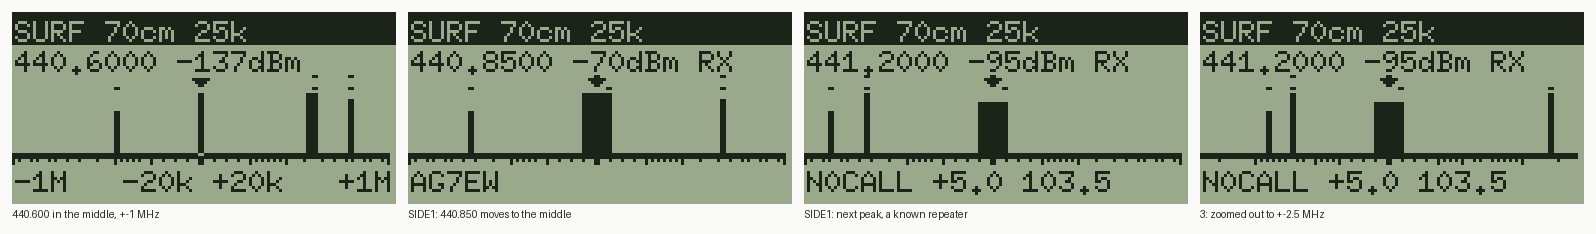
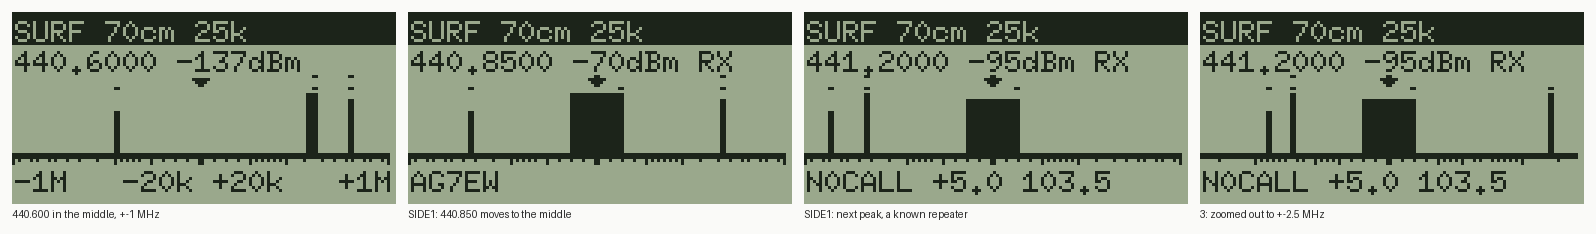
surf: the lens reads with the wide filter; the listening bar no longer blinks
Jeff, on the radio (2026-11-10): the -20k..+20k lens looked flat ("a haircut") with a floor
lower than the rest, and the blinking bar in the middle served no purpose. The narrow filter
(+-6 kHz) read 5 ms after a tune, short of its ~20 ms settle, against outer bins that keep the
loudest of several wide reads; Jeff chose the wide filter for the lens (decision card). Every
bin now reads the same way, a carrier shows as a +-12 kHz hump, and the middle bar is drawn
steady like the others under its caret. Docs screens redrawn.

Claude-Session: https://claude.ai/code/session_01EkN2wZbktbfhQ12msC7iZ3

diff --git a/c/k6/mod/surf.c b/c/k6/mod/surf.c
@@ -2,12 +2,13 @@
 
    The screen is a bargraph of signal strength (Y) across frequency (X): 63 bins, 2 pixels each,
    drawn as the level-6 waterfall bitmap (30 rows of 128 pixels, y = 21-50). The listening
-   frequency is always the middle bin (x = 62-63), a blinking bar (it flips to inverse about 2.5
-   times a second) with a caret above it, and the scale moves with it. The scale is a lens (Jeff,
+   frequency is always the middle bin (x = 62-63), its bar drawn like the others with a caret
+   above it (it blinked until 2026-11-10; Jeff: no purpose), and the scale moves with it. The scale is a lens (Jeff,
    2026-11-09): the 8 bins each side of the middle are 2.5 kHz apart (+-20 kHz, a quarter of the
    screen), and further out each bin's step grows by the same amount, so the last of the 31 each
-   side reaches the span (1 / 3: +-100 kHz to +-5 MHz). The lens's bins read with the narrow
-   filter (Jeff: "narrow it a bit"), the rest with the wide one. Under the bars an axis line has
+   side reaches the span (1 / 3: +-100 kHz to +-5 MHz). Every bin reads with the wide filter (the
+   narrow one, 2026-11-09, gave the lens a flat top and a lower floor than the rest; Jeff
+   2026-11-10: wide again). Under the bars an axis line has
    ticks as on log paper, every 5 kHz to 20 kHz, every 10 kHz to 100 kHz, every 100 kHz to 1 MHz
    and every 1 MHz, taller at 20 kHz, 100 kHz and 1 MHz (Jeff: "axis tic marks to help understand
    the frequency intervals"); line 5 labels it "-1M   -20k +20k   +1M" (the span at each end, the
@@ -82,7 +83,6 @@
 #define AX 27                   /* the axis: its line, then ticks in rows 28 (all) and 29 (major) */
 #define BARH (AX - BAR0)
 #define SETTLE_US 3000          /* a sweep read after its tune (Aura's spectrum, wide) */
-#define SETTLE_N_US 5000        /* the same with the narrow filter (it settles in ~20 ms, not 12) */
 #define CHECK_US 12000          /* a settled read */
 #define CHK_MS 70               /* sweeping: a check of the bar's channel this often */
 #define SUB_HZ 20000u           /* a wide bin: one quick read this far apart across it */
@@ -148,7 +148,7 @@ typedef struct {
   uint32_t t_flush, t_open, t_full, t_sfl, t_msg, t_key, t_rep, t_auto, t_chk;
   int next, pend, sj, sweeps;
   int sfl, sel_dbm;
-  uint8_t si, qfl, parked, tuned, check, mon, hold, audio, hush, blink, key, raw, full, refine, stale;
+  uint8_t si, qfl, parked, tuned, check, mon, hold, audio, hush, key, raw, full, refine, stale;
   uint16_t off[C + 1];          /* bin C+-k's offset from the middle, x 2.5 kHz */
   uint32_t hz[NB];              /* each bin's frequency, 0 outside the band */
   uint32_t pk[NB];              /* where in its range a bin's loudest read was */
@@ -231,15 +231,13 @@ static void hush(sf_t *s, int on) {
   wr(GPIOB + (on ? BRR : BSRR), SPK);
 }
 
-/* the level at hz in dBm, us after its tune (wide: the wide filter, else the narrow) */
-static int read_w(sf_t *s, uint32_t hz, uint32_t us, int wide) {
+/* the level at hz in dBm, us after its tune (the wide filter) */
+static int read_hz(sf_t *s, uint32_t hz, uint32_t us) {
   hush(s, 1);
-  s->api->tune(hz, wide);
+  s->api->tune(hz, WIDE);
   s->api->delay_us(us);
   return dbm(s);
 }
-
-static int read_hz(sf_t *s, uint32_t hz, uint32_t us) { return read_w(s, hz, us, WIDE); }
 
 static int read_at(sf_t *s, int i, uint32_t us) { return read_hz(s, s->hz[i], us); }
 
@@ -522,9 +520,7 @@ static void sweep_bin(sf_t *s, int i) {
   uint32_t lo, hi, f, at = s->hz[i];
   int r, o = s->lvl[i], v;
   cov(s, i, &lo, &hi);
-  if (dist(i) <= KI) {
-    r = read_w(s, at, SETTLE_N_US, 0);   /* the lens: the narrow filter (Jeff 2026-11-09) */
-  } else if (hi - lo <= SUB_HZ) {
+  if (hi - lo <= SUB_HZ) {                 /* the lens and bins up to 20 kHz wide: one read */
     r = read_at(s, i, SETTLE_US);
   } else {
     for (r = -999, f = lo + SUB_HZ / 2; f < hi; f += SUB_HZ)
@@ -638,7 +634,7 @@ static void park_step(sf_t *s) {
   }
   if (!s->hold && (s->stale || (!s->mon && s->now - s->t_full >= REFRESH_MS))) {   /* (stale: a zoom) */
     int i;
-    for (i = 0; i < NV; i++)          /* (read_w hushes the speaker; the next read unhushes it) */
+    for (i = 0; i < NV; i++)          /* (read_hz hushes the speaker; the next read unhushes it) */
       if (s->hz[i]) sweep_bin(s, i);
     sweep_done(s);
     s->tuned = 0;
@@ -705,7 +701,6 @@ static void draw(sf_t *s) {
   int i, r, x, k;
   char *p;
   s->t_flush = s->now;
-  s->blink ^= 1;
   for (i = 0; i < 16 * ROWS; i++) b[i] = 0;
   for (i = 0; i < NV; i++) {
     if (!s->hz[i]) continue;
@@ -734,8 +729,6 @@ static void draw(sf_t *s) {
   }
   for (r = 0; r < 3; r++)
     for (i = x - 2 + r; i <= x + 3 - r; i++) px(b, i, r + 1);
-  if (s->blink)
-    for (r = BAR0; r < AX; r++) b[16 * r + (x >> 3)] ^= (uint8_t)(0xC0 >> (x & 7));
 
   p = put(s->ln, "SURF ");
   p = put(p, s->bd->name);

diff --git a/tests/test_k6_surf.py b/tests/test_k6_surf.py
@@ -192,11 +192,13 @@ def test_bench_build_surfs_by_itself_and_wraps():
     assert f is not None and len(f["heights"]) == NV
     last = lcd["frames"][-1]
     same = sum(height(f, i) == height(last, i) for i in range(NV))
-    assert same >= NV - 4, same                             # (the blinking bar, a last sweep)
-    # it ends hunting up to the band's top: the bins past 450 MHz say '-' and draw nothing
+    assert same >= NV - 4, same                             # (a last sweep)
+    # it ends near a band edge (the top while hunting, or the bottom after the wrap): the bins past
+    # it say '-' and draw nothing, the rest draw
     cen = float(next(ln for ln in said if ln.startswith("bar ")).split()[1]) * 1e6
-    out = [i for i, h in enumerate(scale(round(cen))) if not h]
-    assert out and all(f["heights"][i] == 0 for i in out) and all(f["heights"][i] >= 1 for i in range(C + 1))
+    sc = scale(round(cen))
+    out = [i for i, h in enumerate(sc) if not h]
+    assert out and all(f["heights"][i] == 0 for i in out) and all(f["heights"][i] >= 1 for i, h in enumerate(sc) if h)
 
 
 @need_clang
@@ -229,15 +231,14 @@ def test_bargraph_peaks_side_keys_and_audio():
     on = at(fr, 3_700_000)
     assert on["text"][1] == "440.8500 -70dBm RX" and caret(on) == C
     assert on["text"][5] == labels(400)
-    # the lens: the carrier fills the middle bins, 2.5 kHz apart, within the narrow filter
-    # (+-6 kHz), and no further
-    assert all(height(on, i) >= 18 for i in (C - 2, C - 1, C + 1, C + 2))
-    assert all(height(on, i) <= 2 for i in range(C - KI, C + KI + 1) if abs(i - C) >= 3)
+    # the lens: the carrier fills the middle bins, 2.5 kHz apart, within the wide filter
+    # (+-12 kHz), and no further (the narrow one, until Jeff saw its flat top on 2026-11-10: +-6)
+    assert all(height(on, i) >= 18 for i in range(C - 4, C + 5))
+    assert all(height(on, i) <= 2 for i in range(C - KI, C + KI + 1) if abs(i - C) >= 5)
     assert at(fr, 5_100_000)["text"][1] == "441.2000 -95dBm RX"
-    # the listening bar blinks: its column flips between frames
+    # the listening bar is drawn like the others, steady (it blinked until Jeff, 2026-11-10)
     a, b = on, fr[fr.index(on) + 1]
-    ha, hb = height(a, C), height(b, C)
-    assert max(ha, hb) >= 20 and min(ha, hb) <= 4
+    assert height(a, C) >= 20 and abs(height(a, C) - height(b, C)) <= 2
 
 
 @need_clang

diff --git a/docs/k6-surf.md b/docs/k6-surf.md
@@ -9,8 +9,10 @@ the screen and the scale moves with it. The scale is a lens: within +-20 kHz of 
 bin is 2.5 kHz wide (16 bins, a quarter of the screen), and further out each bin's step grows by
 the same amount, so the last bin each side lands on the span (+-100 kHz to +-5 MHz, keys 1 and 3).
 Each wide bin is the loudest of quick reads 20 kHz apart across its range, so a carrier between
-two bin centres still shows. The lens's bins read with the narrow filter (Jeff: "narrow it a
-bit"; 5 ms after the tune, as it settles more slowly), so a carrier fills about 5 of them, not 8.
+two bin centres still shows. Every bin reads with the wide filter, so a carrier fills about 9 of
+the lens's bins (+-12 kHz) as a rounded hump. The narrow filter (2026-11-09) gave the lens a flat
+top and a floor lower than the outer bins (one early read through the narrower filter against
+the loudest of several), and Jeff, seeing it on the radio on 2026-11-10, chose the wide one.
 An axis under the bars has ticks as on log paper (every 5 kHz to 20 kHz, 10 kHz to 100 kHz,
 100 kHz to 1 MHz, then every 1 MHz; taller at 20 kHz, 100 kHz and 1 MHz), so the squeeze toward
 the ends shows as ticks crowding together, and line 5 labels it: `-1M   -20k +20k   +1M`.

diff --git a/docs/k6-modules.md b/docs/k6-modules.md
@@ -506,8 +506,8 @@ when a reset is acceptable. If it holds, `memory.x` can grow by 2720 bytes: the 
 ## Band surfing (surf)
 
 `c/k6/mod/surf.c` (2026-11-08, level 6): a bargraph of signal strength, the listening frequency
-a blinking bar with a caret, always in the middle of a lens scale (2026-11-09: 2.5 kHz bins within
-+-20 kHz with the narrow filter, wider ones out to a span of +-100 kHz to +-5 MHz, an axis with
+a bar with a caret (steady since 2026-11-10), always in the middle of a lens scale (2026-11-09:
+2.5 kHz bins within +-20 kHz, all bins on the wide filter since 2026-11-10, wider ones out to a span of +-100 kHz to +-5 MHz, an axis with
 log-paper ticks; it needs a voice image's arena), the side keys jumping from peak to
 peak, UP/DOWN stepping a channel, BAND/zoom/monitor keys. It listens first (sweeps only while the bar's channel is
 quiet) and scans the keypad matrix itself, since the API has no key identity. It marks the
